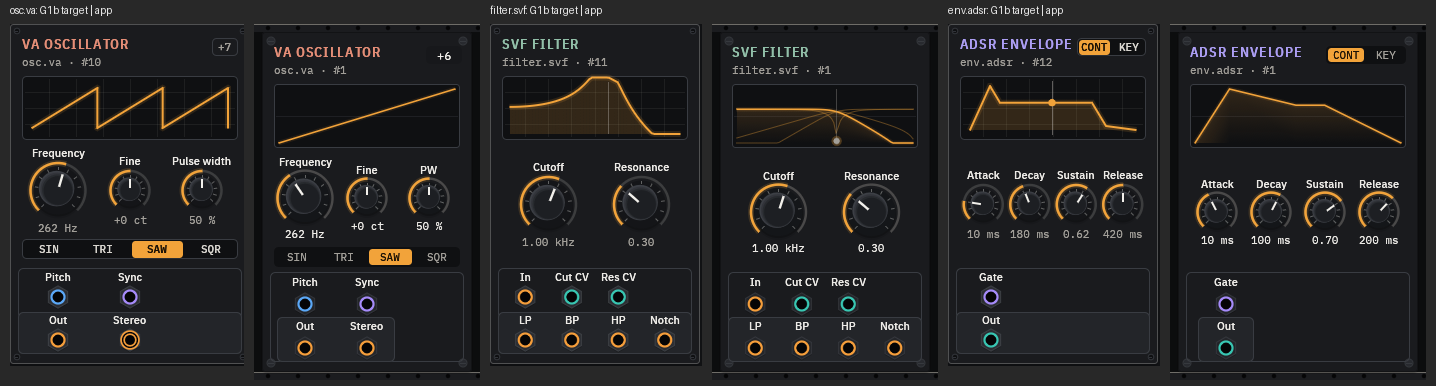
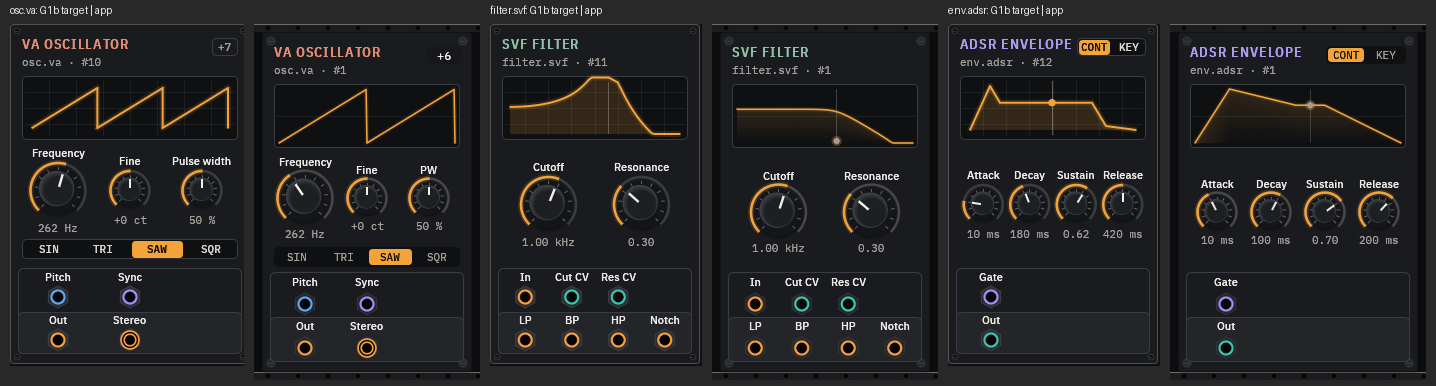
UI G3 osc: saw cycles, filled single filter response, adsr rest marker, full-width plate, stereo jack ring, dim values, perf bench sizes, handover
Claude-Session: https://claude.ai/code/session_01Jy6KS8nYySyc2usWS86kz5

diff --git a/crates/ui/src/displays.rs b/crates/ui/src/displays.rs
@@ -356,7 +356,8 @@ fn osc_va(
         None => {
             let kind = param(state, m, "waveform").round() as i32;
             let pw = param(state, m, "pw") / 100.0;
-            plot(r, 96, |x| wave(kind, pw, x))
+            // Two cycles read as a waveform (G1b target), one ramp does not.
+            plot(r, 192, |x| wave(kind, pw, (x * 2.0).fract()))
         }
     };
     paint(p, st, pts, z, d, None);
@@ -491,7 +492,8 @@ fn filter(
         let strong = ladder
             || patched(port)
             || (o == 0 && !["lp", "bp", "hp", "notch"].iter().any(|q| patched(q)));
-        if d != Detail::Full && !strong {
+        // One response, filled, for the selected output (G1b target).
+        if !strong {
             continue;
         }
         let pts = plot(r, 80, |x| {
@@ -504,7 +506,7 @@ fn filter(
             })
         });
         if strong {
-            paint(p, st, pts, z, d, (o == 0).then_some(r.bottom()));
+            paint(p, st, pts, z, d, Some(r.bottom()));
         } else {
             p.add(egui::Shape::line(
                 pts,
@@ -565,7 +567,14 @@ fn envelope(
     if d != Detail::Full {
         return;
     }
+    // At rest the marker sits at the start of the sustain (G1b target).
     let Some(t) = live.tap(m.id, 0, now).filter(|t| t.view.valid) else {
+        let c = pos2(sx(x2 + 1.0), sy(s));
+        p.line_segment(
+            [pos2(c.x, r.top()), pos2(c.x, r.bottom())],
+            Stroke::new(1.0, alpha(st.roles.disp_text, 70)),
+        );
+        face::playhead(p, st, c, z);
         return;
     };
     let level = t.last.clamp(0.0, 1.0);

diff --git a/crates/ui/src/rack/mod.rs b/crates/ui/src/rack/mod.rs
@@ -824,11 +824,19 @@ fn place_local(
     let (lo, hi) = outs_x.fold((f32::MAX, f32::MIN), |(lo, hi), x| (lo.min(x), hi.max(x)));
     let has_row = skin.is_none() && info.kind != "out" && info.kind != "osc.fm6";
     // Output plate: under the output jacks, a half pitch beyond the outer ones.
+    // Two-row trays: the plate spans the tray (G1b target); one-row trays: just the outputs.
+    let has_in = jacks
+        .iter()
+        .any(|j| j.port.direction == PortDirection::Input);
     let plate = (has_row && hi >= lo).then(|| {
-        Rect::from_min_max(
-            pos2((lo - 28.0).max(8.0), PLATE_TOP),
-            pos2((hi + 28.0).min(fw - 8.0), TRAY_BOTTOM),
-        )
+        if fw < WIDE_FROM && has_in {
+            Rect::from_min_max(pos2(8.0, PLATE_TOP), pos2(fw - 8.0, TRAY_BOTTOM))
+        } else {
+            Rect::from_min_max(
+                pos2((lo - 28.0).max(8.0), PLATE_TOP),
+                pos2((hi + 28.0).min(fw - 8.0), TRAY_BOTTOM),
+            )
+        }
     });
     // Port tray: two rows on narrow faces (when inputs exist), one on wide ones.
     let tray = (has_row && !jacks.is_empty()).then(|| {

diff --git a/crates/ui/src/routing.rs b/crates/ui/src/routing.rs
@@ -965,6 +965,12 @@ pub(crate) fn param_knob(
     let vh = crate::kit::face::face_font(&ui_state.style, crate::style::Role::Value, z)
         .map_or(0.0, |f| f.size * 1.075);
     let vpos = center + EguiVec2::new(0.0, crate::rack::knob_text_dy(r, z, vh));
+    // Line panels: values read in the dimmer text colour (G1b target).
+    let value_ink = if ui_state.style.slots.face.material == crate::style::FaceMaterial::Line {
+        look.ink2
+    } else {
+        look.ink
+    };
     if routes.is_empty() {
         if let Some(g) = crate::kit::face::readout(
             painter,
@@ -972,12 +978,12 @@ pub(crate) fn param_knob(
             &value,
             z,
             look.slot * z - 4.0,
-            look.ink,
+            value_ink,
         ) {
             let rect = egui::Align2::CENTER_CENTER.anchor_size(vpos, g.size());
             ui_state
                 .deferred
-                .push(egui::Shape::galley(rect.min, g, look.ink));
+                .push(egui::Shape::galley(rect.min, g, value_ink));
         }
     } else {
         let edge = if routes.iter().any(|rt| !rt.bypass) {

diff --git a/crates/ui/examples/bench_chrome.rs b/crates/ui/examples/bench_chrome.rs
@@ -185,12 +185,14 @@ fn main() {
     let dense = dense();
     // KABL_BENCH_SIZES=1 measures 1440x900 only (interleaved A/B runs).
     let sizes = [(1440.0, 900.0), (1280.0, 800.0), (1180.0, 680.0)];
-    let n = if std::env::var("KABL_BENCH_SIZES").as_deref() == Ok("1") {
-        1
-    } else {
-        3
+    // KABL_BENCH_SIZES=1 measures 1440x900 only, =1180 measures 1180x680 only.
+    let only = std::env::var("KABL_BENCH_SIZES").unwrap_or_default();
+    let picked: Vec<(f32, f32)> = match only.as_str() {
+        "1" => vec![sizes[0]],
+        "1180" => vec![sizes[2]],
+        _ => sizes.to_vec(),
     };
-    for &(w, h) in &sizes[..n] {
+    for &(w, h) in &picked {
         for dark in [false, true] {
             run("simple", &simple, w, h, dark, frames, 0, live, edit);
             run("dense", &dense, w, h, dark, frames, 0, live, edit);

diff --git a/crates/ui/src/lib.rs b/crates/ui/src/lib.rs
@@ -3739,7 +3739,7 @@ fn draw_jacks(
         let patched = cabled
             .iter()
             .any(|(d, p)| *d == port.direction && p == port.name);
-        kit::face::jack(
+        kit::face::jack_ch(
             painter,
             &st,
             c,
@@ -3748,6 +3748,7 @@ fn draw_jacks(
             th.signal(port.port_type),
             patched,
             hot,
+            port.width == 2 || port.name == "stereo",
         );
         let badge = (ui_state.cable_view == CableView::Hidden)
             .then(|| jack_badge(editor, m.id, port.name, port.direction))

diff --git a/docs/design/redesign/g3/osc/HANDOVER.md b/docs/design/redesign/g3/osc/HANDOVER.md
@@ -1,0 +1,23 @@
+# G3 agent B handover (osc / filter / env), next: FM Voice
+
+Standing rules: report to session "Kabl overseer" (SendMessage to its `from` address), never merge, draft PRs only, never push to master. Chat style: caveman + ponytail ultra; code, commits, PR text normal English. The worktree guard rejects compound shell commands that mention git/gh or use shell variables: use plain single commands and the Write tool + `python3 script.py` for multi-line edits; shell loops with a variable that reaches a program are refused.
+
+## State (2026-11-01)
+- Stack: #80 hooks (`claude-ui-g3-hooks`), #81 flow, #83 osc/filter/env (`claude/ui-g3-osc`, base `claude/ui-g3-flow`). #77-#79 (G2) accepted.
+- #83 covers 10 of the 11 kinds with the generic flow plus family hooks (`rack/osc.rs`, `filter.rs`, `env.rs`): `on_face`, `knob_size`, `order`, `in_header`, `short_name`. Checker: none of the 11 kinds has an error except `env.adsr` at 0.5 (`timing / title` gap 1.5 px < 2 px).
+- **Next PR: FM Voice (`osc.fm6`)**. It passes the checker but is the old card layout (ratio as a dropdown, no algorithm well, no editable curves). Target: PLAN §4 "Representative faces" FM Voice 660 and the G1b sheet (`docs/design/redesign/g1b/sheet-{graphite,paper}.png`, rendered by `crates/ui/examples/kabl_mock.rs`; its FM Voice spec is the layout reference).
+  - Left column: algorithm well (operator graph, carriers filled, feedback loop), Freq / Fine / Fdbk / Index, OVERSAMPLE 2x/4x.
+  - Six operator cards: `OP n` + carrier dot, ratio field, Level knob, editable envelope curve (A/D/S/R as draggable points). Fine + velocity per operator behind `+12` which opens the operator drawer.
+  - Code: `rack/osc.rs::fm6_face` (layout, `Decor::Operators`), `displays.rs::fm6_scope` and `fm6` drawing in `lib.rs`/`rack_editor`; envelope editing needs a new widget (kit) and writes the four params per operator (`attack1..` etc.), so undo/save paths stay as for knobs.
+  - Keep face width 660 (face_width test), port identity and order, saved racks. fm6 face jacks are on top left today (`rack/mod.rs` fm6 branch), the PLAN wants the single-row wide tray.
+
+## Known diffs vs G1b in #83
+- Plate is full tray width now; bold labels (target) vs regular weight, filter response shape (target has a bump), SVF shows LP only.
+- Stereo jack double ring is drawn (`kit::face::jack_ch`), VA saw shows two cycles.
+- `env.adsr` 0.5 title gap (see above).
+
+## How to work
+- Captures: `xvfb-run -a -s "-screen 0 1000x520x24" target/release/examples/face_capture OUT kind,kind [theme-id]`; sheets `OUT/<kind>__sheet.png`; side-by-side script is in the job tmp, recreate from `docs/design/redesign/g3/osc/side-by-side-*.png` (crop boxes: VA (24,46,258,388), SVF (280,46,492,388), ADSR (506,46,718,388) in the G1b sheet).
+- Checker: `cargo test -p kabl-ui --test geometry` then read `target/ui-check/report.json` (rule, face, zoom, sev). Full `cargo test -p kabl-ui` takes ~4 min.
+- Perf A/B: `KABL_BENCH_SIZES=1|1180 KABL_BENCH_THEME=kabl.satin|kabl.line_solid target/release/examples/bench_chrome 200 live`, interleave A B, 6 rounds, report median of medians and paired difference. Machine load is high (7-9): absolute numbers inflated.
+- Builds are large (`cargo clean` at the end of a session).
